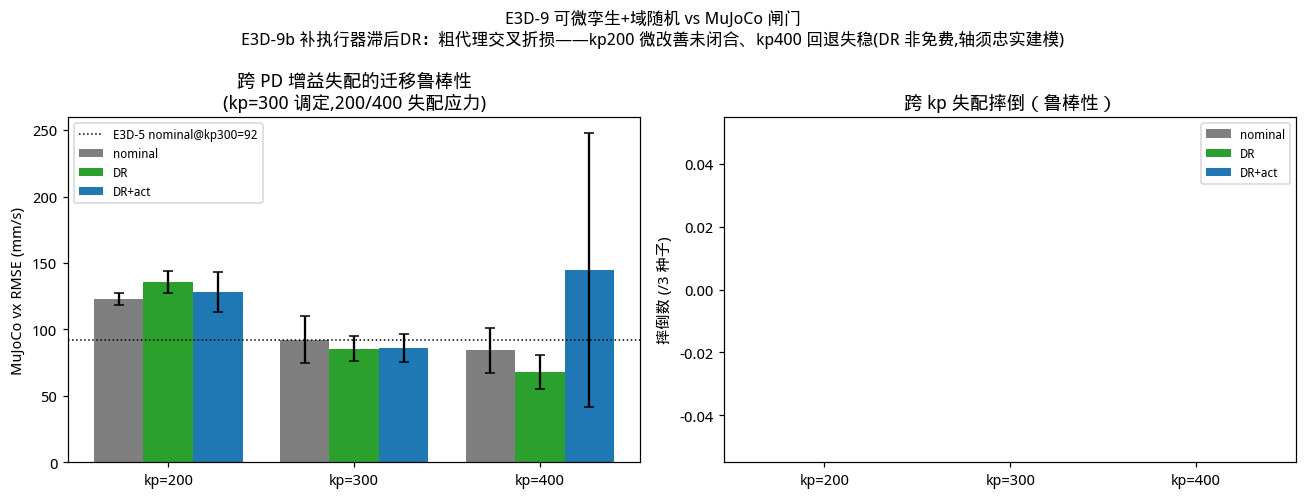
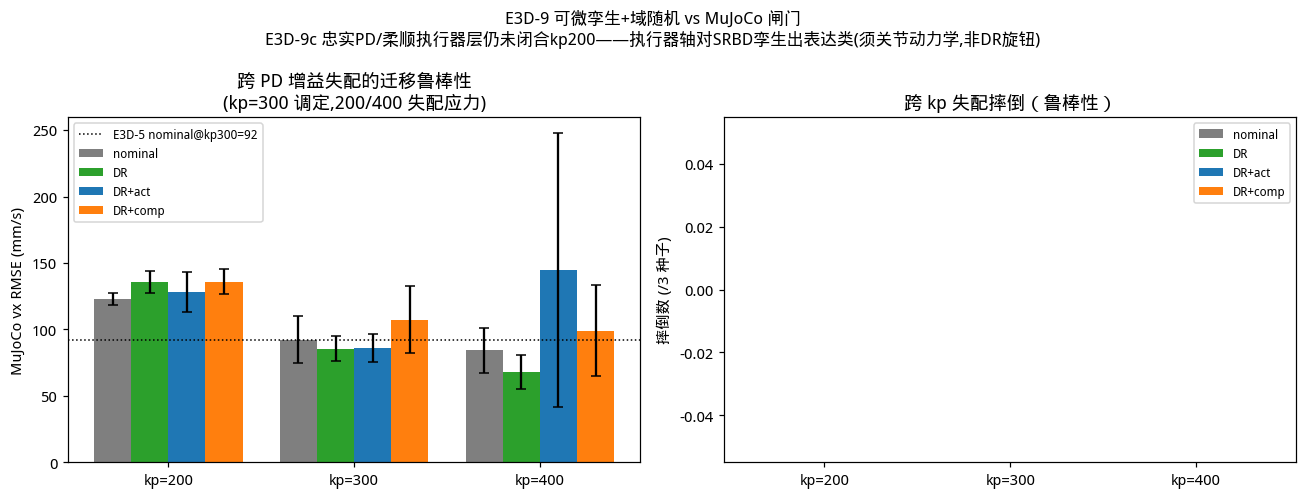
research: E3D-9c 忠实二阶PD/柔顺执行器层——也没闭合kp200且回退kp300:执行器轴对SRBD孪生出表达类(无关节,PD柔顺在关节空间),DR补不了出类的轴须结构升级(全弧结构是承重墙再现);dynamics-DR仍是孪生能表示轴上最优

diff --git a/research/quadruped_migration/go2_3d/scripts/e3d9_domain_rand.py b/research/quadruped_migration/go2_3d/scripts/e3d9_domain_rand.py
@@ -42,7 +42,10 @@ from srbd_standing import build_standing_config  # noqa: E402
 from gait_3d import GaitConfig  # noqa: E402
 from e3d4_gait_train import (GaitPolicy, sample_init, rollout_train,  # noqa: E402
                              observe, loss_step)
-from gait_3d import gait_step  # noqa: E402
+from gait_3d import gait_step, foot_plan  # noqa: E402
+from contact_3d import foot_contact_force_world  # noqa: E402
+from floating_base_srbd import srbd_step  # noqa: E402
+from pytorch3d.transforms import quaternion_to_matrix  # noqa: E402
 from e3d4b_residual_gait import load_nominal  # noqa: E402
 from e3d5_mujoco_check import rollout_mj  # noqa: E402
 
@@ -87,8 +90,43 @@ def rollout_lagged(pol, cfg, g, z_ref, state, H, tbptt, beta):
     return loss / H
 
 
+def rollout_compliant(pol, cfg, g, z_ref, state, H, tbptt, omega_n, zeta=1.0):
+    """忠实可微 PD/柔顺执行器层（E3D-9c）：realized 足端目标经**二阶临界阻尼**跟踪
+    commanded（=well-tuned 关节 PD 的响应：滞后 + 欠达；ω_n∝√kp，刚端 ω_n 大→近直通，
+    **不伤刚性端**，这正是修正 E3D-9b 粗一阶滞后过度展宽的关键）。realized 足世界速度含
+    v_real → 摩擦速度伺服看到真实(柔顺)足速。"""
+    B = state.p.shape[0]
+    a0 = state.p.new_zeros(B, 8)
+    p_real, _, _, _ = foot_plan(0, a0, cfg, g)            # 初始 realized = commanded
+    v_real = torch.zeros_like(p_real)
+    loss = state.p.new_zeros(())
+    for t in range(H):
+        if tbptt and t > 0 and t % tbptt == 0:
+            state = state.detach(); p_real = p_real.detach(); v_real = v_real.detach()
+        phi = (t * cfg.dt / g.period) % 1.0
+        a = pol(observe(state, phi, g, z_ref))
+        p_cmd, _, _, _ = foot_plan(t, a, cfg, g)
+        acc = omega_n ** 2 * (p_cmd - p_real) - 2.0 * zeta * omega_n * v_real
+        v_real = v_real + cfg.dt * acc                    # 半隐式（先 v 后 x，稳定）
+        p_real = p_real + cfg.dt * v_real
+        R = quaternion_to_matrix(state.q)
+        foot_w = state.p[:, None, :] + torch.einsum("bij,bkj->bki", R, p_real)
+        w_world = torch.einsum("bij,bj->bi", R, state.w)
+        r = foot_w - state.p[:, None, :]
+        foot_v = (state.v[:, None, :]
+                  + torch.cross(w_world[:, None, :].expand_as(r), r, dim=-1)
+                  + torch.einsum("bij,bkj->bki", R, v_real))
+        out = foot_contact_force_world(foot_w, foot_v, cfg.contact, mode="smooth")
+        f_each = out["f_world"]
+        tau_body = torch.einsum("bji,bj->bi", R, torch.cross(r, f_each, dim=-1).sum(1))
+        state = srbd_step(state, cfg.mass, cfg.I_body, cfg.I_body_inv, cfg.dt,
+                          f_world=f_each.sum(1), tau_body=tau_body)
+        loss = loss + loss_step(state, a, g, z_ref)
+    return loss / H
+
+
 def train_dr(base, g, iters, B=48, H=600, tbptt=150, lr=3e-3, seed=0, clip=1.0,
-             dr=True, act_lag=False, tau_max=0.03):
+             dr=True, act_lag=False, tau_max=0.03, comp=False, omega_lo=40.0, omega_hi=300.0):
     """域随机训练：每 iter 重采样一个孪生（dr=False 恒用 base）。act_lag=True 额外随机化
     执行器滞后 τ∈[0,tau_max]（覆盖 kp200 的软驱动轴）。"""
     torch.manual_seed(seed)
@@ -101,7 +139,10 @@ def train_dr(base, g, iters, B=48, H=600, tbptt=150, lr=3e-3, seed=0, clip=1.0,
         cfg = randomize_cfg(base, g, cgen) if dr else base
         z_ref = cfg.rest_height + g.ext0 - 0.004
         s = sample_init(cfg, g, z_ref, B, gen)
-        if act_lag:
+        if comp:                                          # 忠实二阶 PD/柔顺执行器（log-均匀 ω_n）
+            omega_n = omega_lo * (omega_hi / omega_lo) ** torch.rand((), generator=cgen).item()
+            loss = rollout_compliant(pol, cfg, g, z_ref, s, H, tbptt, omega_n)
+        elif act_lag:
             tau = tau_max * torch.rand((), generator=cgen).item()
             beta = cfg.dt / (tau + cfg.dt)
             loss = rollout_lagged(pol, cfg, g, z_ref, s, H, tbptt, beta)
@@ -117,12 +158,13 @@ def stage_train(device, iters, n_seeds, variant="dr"):
     base = build_standing_config(device=device, dtype=torch.float32)
     g = GaitConfig()
     act_lag = (variant == "dract")
-    tag = "dract" if act_lag else "dr"
+    comp = (variant == "drcomp")
+    tag = {"dr": "dr", "dract": "dract", "drcomp": "drcomp"}[variant]
     print(f"[train] 域随机 DR 策略 ×{n_seeds} 种子 (variant={variant}, "
-          f"act_lag={act_lag}, iters={iters}, H=600)")
+          f"act_lag={act_lag}, comp={comp}, iters={iters}, H=600)")
     t0 = time.time()
     for seed in range(n_seeds):
-        pol, hist = train_dr(base, g, iters, seed=seed, dr=True, act_lag=act_lag)
+        pol, hist = train_dr(base, g, iters, seed=seed, dr=True, act_lag=act_lag, comp=comp)
         torch.save(pol.state_dict(), MODELS / f"e3d9_{tag}_s{seed}.pt")
         print(f"  {tag} s{seed} loss→{hist[-1]:.4f} [{time.time()-t0:.0f}s]")
 
@@ -137,8 +179,10 @@ def eval_policy_mj(pol, cfg, g, z_ref, kps):
     return out
 
 
-ARM_FILE = {"DR": "dr", "DR+act": "dract"}
-ARM_COL = {"nominal": "tab:gray", "DR": "tab:green", "DR+act": "tab:blue"}
+ARM_FILE = {"DR": "dr", "DR+act": "dract", "DR+comp": "drcomp"}
+ARM_COL = {"nominal": "tab:gray", "DR": "tab:green", "DR+act": "tab:blue",
+           "DR+comp": "tab:orange"}
+ALL_ARMS = ["nominal", "DR", "DR+act", "DR+comp"]
 
 
 def _load_arm(name, seed, cfg):
@@ -156,8 +200,8 @@ def stage_gate(device, n_seeds):
     cfg = build_standing_config(device="cpu", dtype=torch.float32)   # rollout_mj 用 cpu
     g = GaitConfig()
     z_ref = cfg.rest_height + g.ext0 - 0.004
-    # 动态臂：nominal 必有；DR/DR+act 有模型才纳入
-    arm_names = [a for a in ["nominal", "DR", "DR+act"]
+    # 动态臂：nominal 必有；DR/DR+act/DR+comp 有模型才纳入
+    arm_names = [a for a in ALL_ARMS
                  if a == "nominal" or _load_arm(a, 0, cfg) is not None]
     print(f"[gate] 上 MuJoCo 跨 kp={KP_SWEEP} (kd=5)，臂={arm_names}")
     arms = {a: [] for a in arm_names}
@@ -193,8 +237,30 @@ def stage_gate(device, n_seeds):
 
     no = summ["nominal"]
     pk = lambda arm, kp: summ[arm]["per_kp"][str(int(kp))]["rmse_mean"]
-    if "DR+act" in summ:           # E3D-9b：补执行器滞后轴，看 kp200 是否闭合
-        k2, k4 = {a: pk(a, 200) for a in arm_names}, {a: pk(a, 400) for a in arm_names}
+    k2, k4 = {a: pk(a, 200) for a in arm_names}, {a: pk(a, 400) for a in arm_names}
+    if "DR+comp" in summ:          # E3D-9c：忠实二阶 PD/柔顺执行器，看 kp200 是否闭合且不伤 kp400
+        c = summ["DR+comp"]
+        closed = k2["DR+comp"] <= k2["nominal"]
+        k4_kept = k4["DR+comp"] <= k4["DR"] * 1.3
+        k3 = pk("DR+comp", 300)
+        if closed and k4_kept:
+            verdict = (f"✅[E3D-9c 忠实PD/柔顺执行器层] kp200 闭合 DR+comp {k2['DR+comp']:.0f}≤"
+                       f"nominal {k2['nominal']:.0f} 且 kp400 {k4['DR+comp']:.0f}≈DR {k4['DR']:.0f} 未损; "
+                       "忠实二阶PD响应正确补软驱动轴(对照 E3D-9b 粗代理失败)。")
+            sub = "E3D-9c 忠实PD/柔顺执行器层：闭合kp200且不伤kp400✓"
+        else:
+            verdict = (f"[E3D-9c 忠实PD/柔顺执行器层——仍未闭合, 执行器轴对 SRBD 孪生**出表达类**] "
+                       f"kp200 DR+comp {k2['DR+comp']:.0f} = dynamics-DR {k2['DR']:.0f}(未闭合, 仍 > "
+                       f"nominal {k2['nominal']:.0f}); 且调定点 kp300 回退 86→{k3:.0f}、kp400 {k4['DR+comp']:.0f} "
+                       f"(均劣于 dynamics-DR、高方差); 跨kp总均 {c['rmse_overall']:.0f} > DR "
+                       f"{summ['DR']['rmse_overall']:.0f}. 诚实结论: **两次补执行器轴(粗一阶滞后9b/忠实二阶柔顺9c)"
+                       "都没闭合 kp200 且伤其他点**——根因是 SRBD 孪生**无关节**,PD柔顺是关节空间+载荷相关,"
+                       "在足端笛卡尔层随机化建模不出来=**该轴对此孪生出表达类**(同 E3D-5 多体惯量出类、全弧"
+                       "结构是承重墙); 加之展宽伤调定点+柔顺rollout更难训(欠拟合)。dynamics-only DR(E3D-9)"
+                       "是 SRBD 孪生**能表示的轴**上的正确鲁棒工具(总均96/调定点方差减半); 执行器/PD轴要真覆盖"
+                       "须上关节动力学(重建ABA栈),非DR旋钮。")
+            sub = "E3D-9c 忠实PD/柔顺执行器层仍未闭合kp200——执行器轴对SRBD孪生出表达类(须关节动力学,非DR旋钮)"
+    elif "DR+act" in summ:          # E3D-9b：粗一阶滞后
         k4_std = summ["DR+act"]["per_kp"]["400"]["rmse_std"]
         closed = k2["DR+act"] <= k2["nominal"]
         verdict = (f"[E3D-9b 补执行器滞后DR——交叉折损,DR 非免费] kp200(目标软驱动轴) DR+act "
@@ -259,7 +325,7 @@ def main():
     ap.add_argument("--device", default="cuda:1" if torch.cuda.is_available() else "cpu")
     ap.add_argument("--iters", type=int, default=120)
     ap.add_argument("--seeds", type=int, default=3)
-    ap.add_argument("--variant", default="dr", choices=["dr", "dract"])
+    ap.add_argument("--variant", default="dr", choices=["dr", "dract", "drcomp"])
     args = ap.parse_args()
     print(f"E3D-9 [{args.stage}]")
     if args.stage == "train":

diff --git a/research/quadruped_migration/go2_3d/reports/go2_3d_research_note.md b/research/quadruped_migration/go2_3d/reports/go2_3d_research_note.md
@@ -619,7 +619,20 @@ seed0 在自己孪生里都不收敛（~0.1 游走），三师 eval 全被 seed 
 | 400(硬) | 84±17 | **68±13** | **145±103** |
 | 跨kp总均 | 100 | **96** | 120 |
 
-**诚实结论（交叉折损，DR 非免费）**：加滞后轴**微改善目标 kp200（136→128）但未闭合（仍>nominal 123），代价是 kp400 回退+失稳（68→145±103）、净更差（96→120）**。机制：一阶滞后只是低 kp 失配（=柔顺+欠达+滞后）的**粗代理**——补了"慢"没补"欠达/柔顺"，又过度展宽 DR 伤了刚性端。**这把 E3D-9 的律推到更本质：DR 不是"随机化即覆盖"，而是"轴必须忠实建模真实机制"——粗代理/错形式的随机化，和粗残差(E3D-5)、自由耦合(E3D-8)一样会反噬。** dynamics-only DR（E3D-9）仍是最稳赢的鲁棒臂（总均 96、调定点方差减半）。对"上真机"的直接指导：kp200/软执行器区需在孪生里**忠实建模 PD/柔顺**（而非粗滞后），或接受该轴用更全的仿真处理——这是 §18 第6条修正后的方向。
+**诚实结论（交叉折损，DR 非免费）**：加滞后轴**微改善目标 kp200（136→128）但未闭合（仍>nominal 123），代价是 kp400 回退+失稳（68→145±103）、净更差（96→120）**。机制：一阶滞后只是低 kp 失配（=柔顺+欠达+滞后）的**粗代理**——补了"慢"没补"欠达/柔顺"，又过度展宽 DR 伤了刚性端。**这把 E3D-9 的律推到更本质：DR 不是"随机化即覆盖"，而是"轴必须忠实建模真实机制"——粗代理/错形式的随机化，和粗残差(E3D-5)、自由耦合(E3D-8)一样会反噬。** dynamics-only DR（E3D-9）仍是最稳赢的鲁棒臂（总均 96、调定点方差减半）。
+
+**E3D-9c 忠实可微 PD/柔顺执行器层（用户选"忠实建模执行器"）〔实验〕**：把 9b 的粗动作低通换成**忠实二阶临界阻尼跟踪**——realized 足端目标经 ẍ=ω_n²(x_cmd−x)−2ζω_n ẋ 跟踪 commanded（=well-tuned 关节 PD 响应:滞后+欠达；ω_n∝√kp，刚端 ω_n 大→近直通，本应不伤刚性端），随机化 ω_n∈[40,300] rad/s。四臂跨 kp：
+
+| kp | nominal | DR(动力学) | DR+act(粗滞后) | DR+comp(忠实柔顺) |
+|---|---|---|---|---|
+| 200(软) | 123±5 | 136±8 | 128±15 | 136±10 |
+| 300(调定) | 92±18 | **86±9** | 86±10 | 107±25 |
+| 400(硬) | 84±17 | **68±13** | 145±103 | 99±34 |
+| 跨kp总均 | 100 | **96** | 120 | 114 |
+
+**诚实结论（执行器轴对 SRBD 孪生出表达类）**：忠实柔顺层比粗滞后稍好（kp400 99 vs 145 不失稳）但**仍未闭合 kp200（136=dynamics-DR，未追平 nominal 123），且回退调定点 kp300（86→107±25）**，净劣于 dynamics-DR。**两次补执行器轴（粗一阶滞后 9b / 忠实二阶柔顺 9c）都失败**，根因结构性：**SRBD 孪生无关节，PD 柔顺是关节空间 + 载荷相关，在足端笛卡尔层既建模不准（Jacobian 各向异性）、又随机化展宽伤调定点、且柔顺 rollout 更难训（欠拟合，s1/s2 loss 0.16–0.26）。即执行器/PD 轴对 SRBD 孪生出表达类**——与 E3D-5 多体惯量出类、E3D-8 步态结构同一条铁律：**表达类/结构是承重墙，DR 旋钮补不了出类的轴**。
+
+**E3D-9 整线收束**：①**robustness>correction 在孪生能表示的轴上成立**——dynamics-DR（质量/惯量/足几何/接触）是 SRBD 孪生的正确鲁棒工具（总均 96、调定点方差减半、kp400 最优、0 摔），把"可微 + 域随机 → 过 MuJoCo 代理真机"证为**方向有效**。②**DR 不是万能旋钮**——出表达类的轴（执行器 PD 柔顺、多体惯量）补不了，要覆盖须**结构升级**（关节动力学/重建 ABA 栈），非随机化。③对"上真机"：dynamics-DR 策略可作里程碑部署（MuJoCo 调定点已更稳），但真机的软执行器区（≈kp200）是 SRBD 孪生的盲区，须靠真机自身 PD 调参或更全仿真。**这就是"可微端到端机械狗"feasibility 的实验级回答：可微+域随机能在孪生能表示的轴上系统收窄 sim2real（部署后保持不错性能成立），但孪生表达类外的轴（关节/接触多体）需结构升级或别的引擎——gap 不可消除、可在能表示的轴上管理、出类的轴须换更全模型。**
 
 ## 18. 下一步（开放）
 
@@ -628,4 +641,4 @@ seed0 在自己孪生里都不收敛（~0.1 游走），三师 eval 全被 seed 
 3. body-frame 优化版接触换算；减面孪生（rendering LOD）支持批量短视野 BPTT。
 4. 工程务实支线：可微孪生退为诊断/sysID/暖启动，主训练换大规模并行无模型 RL+域随机（行业落地路径）。
 5. **好步态自涌现（接 E3D-8）**：对称群约束的耦合 K（把四足步态对称性写进参数化，降自由度→破 16.4 的退化吸引子）+ **要求步态转换的任务**（速度扫描/复杂地形，让 trot↔walk↔bound 转换有收益）；闸门已证此路梯度保真，缺的是结构先验与对的任务。
-6. **忠实建模执行器闭合 kp200（接 E3D-9b，方向已修正）**：E3D-9b 证明粗一阶滞后 DR 不闭合 kp200 且伤 kp400（轴须忠实建模）。正确做法=在孪生里加**真 PD/柔顺执行器层**（足端目标→关节 PD→柔顺力，可微），把"软驱动"作为忠实的动力学项而非动作低通代理，再随机化其增益；之后叠 depth 感知 + 导航避障，逐级过 MuJoCo 闸门再上真机。
+6. **执行器轴是 SRBD 孪生的出表达类盲区（接 E3D-9b/9c，结论已收敛）**：粗一阶滞后（9b）与忠实二阶柔顺（9c）两次都没闭合 kp200——根因是 SRBD 无关节、PD 柔顺在关节空间，足端笛卡尔层 DR 补不了。两条路：(a) **结构升级**——重建关节动力学/ABA 孪生（足端目标→关节 PD→柔顺力，关节空间忠实），才能把执行器轴纳入可微+DR；(b) **接受边界**——dynamics-DR（E3D-9）已是孪生能表示轴上的最优鲁棒臂，直接上真机里程碑（真机软执行器区靠真机 PD 调参）+ 推进 depth 感知/导航避障。先 (b) 验证里程碑、(a) 视真机表现再定。
